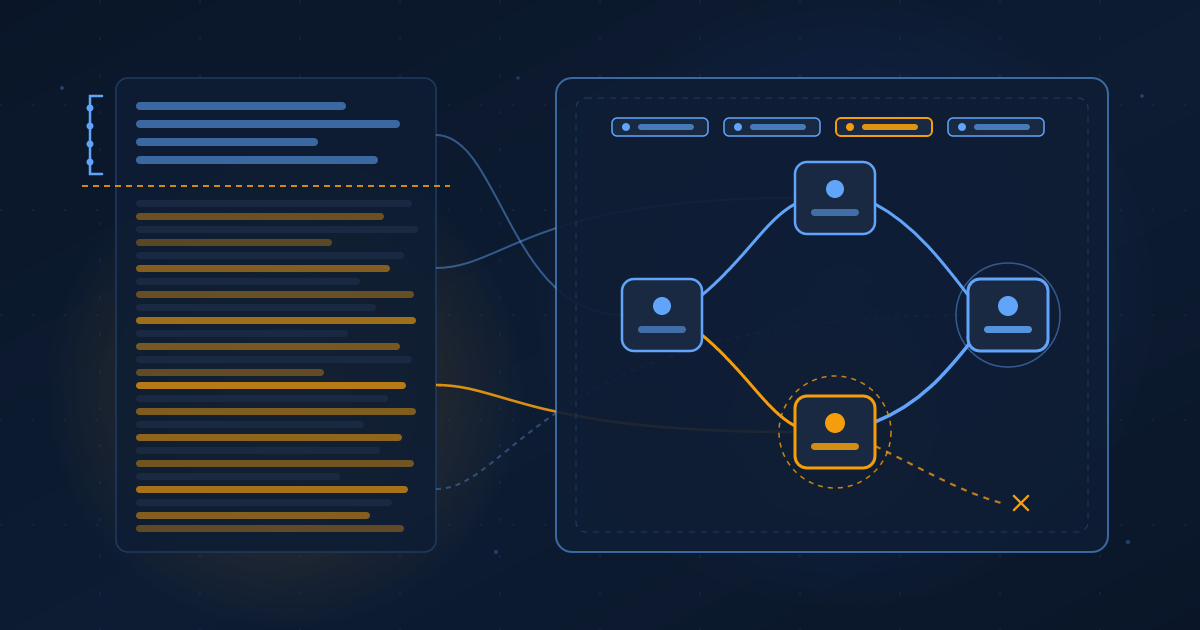
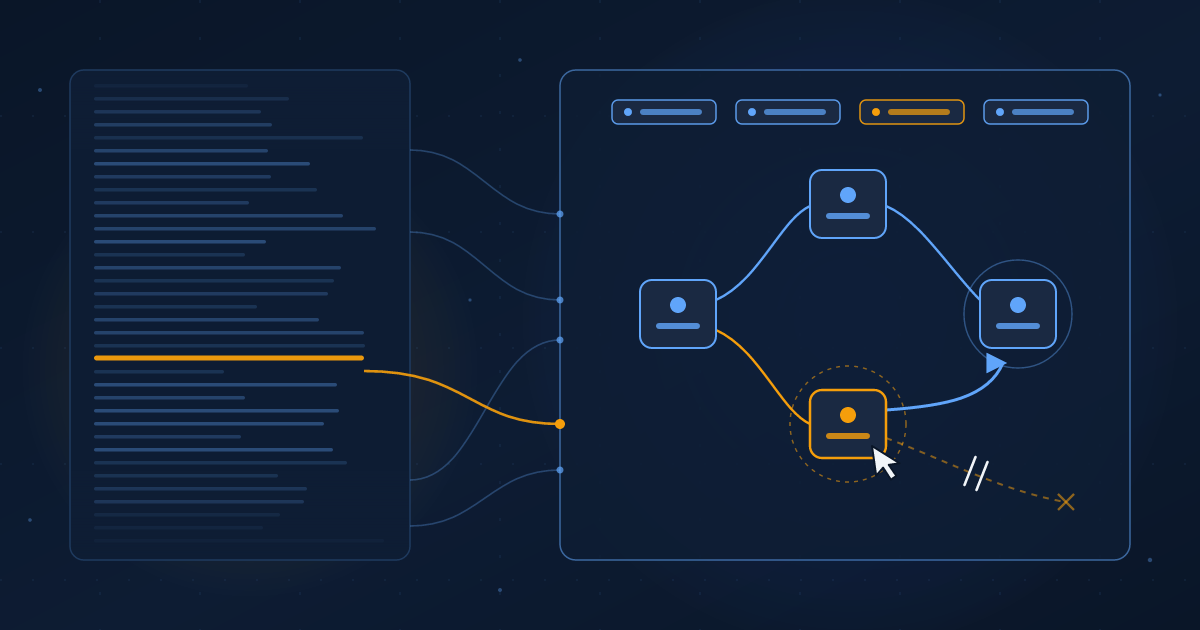
feat(articles): redraw article 78 hero to show the redirect
The hero now states the full claim: a cursor points at the drifted amber
node, its dashed path to a dead end is cut, and a new blue path carries it
to the goal. Stream threads end at the map's edge. Alt text updated.

Claude-Session: https://claude.ai/code/session_01FpfQ6vK64hXsLyxPG8cs7y

diff --git a/articles/Articles/steer-from-the-map.html b/articles/Articles/steer-from-the-map.html
@@ -35,7 +35,7 @@
     <meta property="og:image:type" content="image/png">
     <meta property="og:image:width" content="1200">
     <meta property="og:image:height" content="630">
-    <meta property="og:image:alt" content="A dense waterfall of text lines on the left feeds a four-node map on the right; one amber node, fed by the highlighted line, drifts along a dashed path toward a dead end marked with an X.">
+    <meta property="og:image:alt" content="A dense waterfall of text lines on the left feeds a four-node map on the right. A cursor points at the one amber node that drifted, its dashed path to a dead end is cut, and a new blue path carries it to the goal.">
     <meta property="article:published_time" content="2026-11-21">
     <meta property="article:author" content="https://alhaol.github.io/">
 
@@ -46,7 +46,7 @@
     <meta name="twitter:title" content="Steer From the Map">
     <meta name="twitter:description" content="An AI stream runs faster than anyone can read and wider than working memory can hold. Stay in control by steering from a live visual map of the state.">
     <meta name="twitter:image" content="https://alhaol.github.io/articles/Post_Images/Image_78.png">
-    <meta name="twitter:image:alt" content="A dense waterfall of text lines on the left feeds a four-node map on the right; one amber node, fed by the highlighted line, drifts along a dashed path toward a dead end marked with an X.">
+    <meta name="twitter:image:alt" content="A dense waterfall of text lines on the left feeds a four-node map on the right. A cursor points at the one amber node that drifted, its dashed path to a dead end is cut, and a new blue path carries it to the goal.">
 
     <!-- JSON-LD. Values are JSON strings: escape any backslash or double quote; never write "</". -->
     <script type="application/ld+json">
@@ -347,7 +347,7 @@
 
     <!-- HERO. Never cropped, never lazy (it is the LCP image). -->
     <figure class="hero wide">
-        <img class="hero-image" src="../Post_Images/Image_78.png" alt="A dense waterfall of text lines on the left feeds a four-node map on the right; one amber node, fed by the highlighted line, drifts along a dashed path toward a dead end marked with an X." width="1200" height="630" fetchpriority="high" decoding="async">
+        <img class="hero-image" src="../Post_Images/Image_78.png" alt="A dense waterfall of text lines on the left feeds a four-node map on the right. A cursor points at the one amber node that drifted, its dashed path to a dead end is cut, and a new blue path carries it to the goal." width="1200" height="630" fetchpriority="high" decoding="async">
     </figure>
 
     <div class="article-grid">
